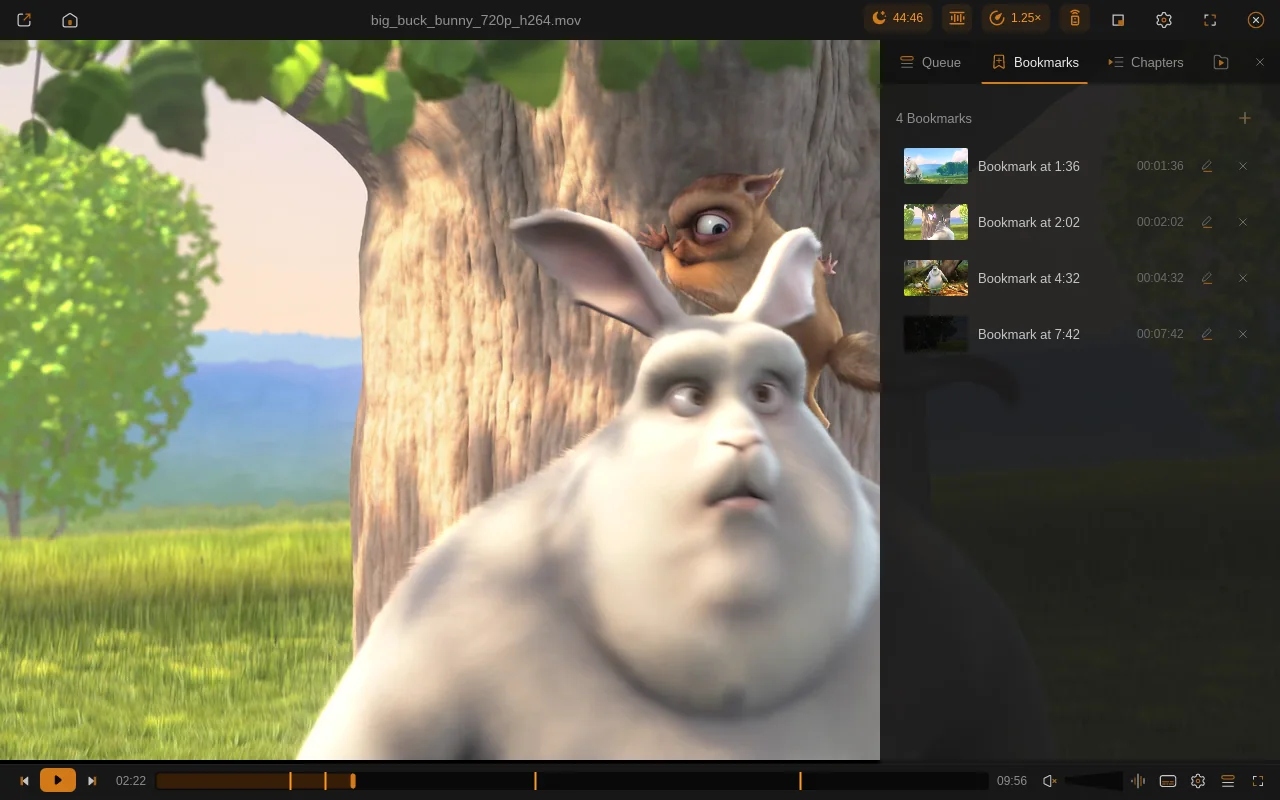
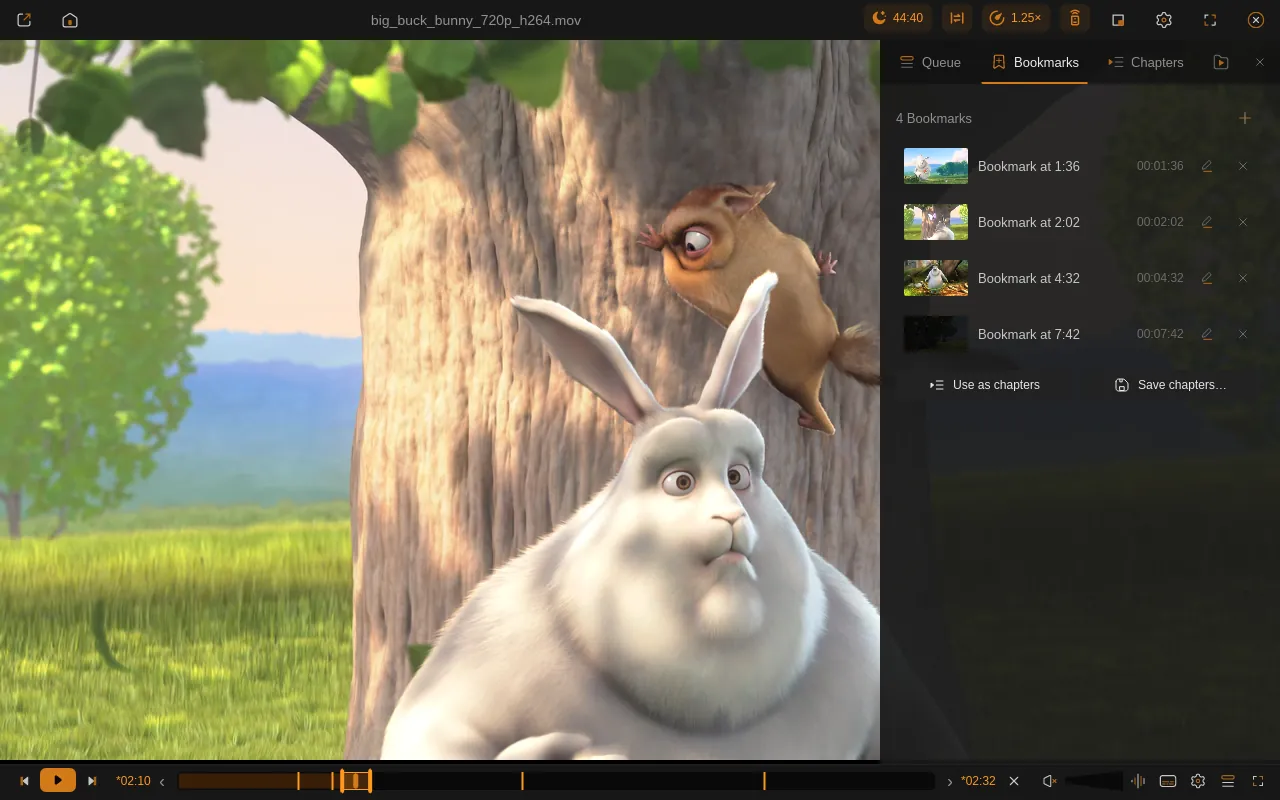
Site: bookmarks screenshot with the chapter buttons and A-B loop

diff --git a/docs/site/index.html b/docs/site/index.html
@@ -55,7 +55,7 @@
   <div class="tile"><h3>Volume leveling, gapless and crossfade <span class="tag">New in 0.15</span></h3><p>ReplayGain by track or album with a preamp, clipping protection and a gain for untagged files, so tagged songs play at a similar loudness. Local music plays gapless by default, and an optional soft crossfade of up to 12 s fades one track out before the next fades in. Settings → Audio.</p><a href="img/audio-leveling.webp"><img class="shot" src="img/audio-leveling.webp" alt="Audio settings: ReplayGain set to Album, Preamp, Prevent clipping and Files without tags under Volume leveling, and Gapless playback on with a 6 s Crossfade under Between tracks" loading="lazy" decoding="async" width="1054" height="659"></a></div>
   <div class="tile"><h3>Your mouse, your keys <span class="tag">New in 0.15</span></h3><p>Settings → Controls gathers Skip Amounts, Keyboard Shortcuts, Mouse and Remotes. Choose what left click, double-click, middle click and the Back / Forward side buttons do on the video, and whether the scroll wheel changes volume, speed or seeks. Skip Amounts adds a speed step of 0.05, 0.1 or 0.25×.</p><a href="img/controls-mouse.webp"><img class="shot" src="img/controls-mouse.webp" alt="Settings → Controls → Mouse: actions for left click, left double-click, middle click and the Back and Forward buttons, the scroll wheel and Reverse scroll direction" loading="lazy" decoding="async" width="1280" height="720"></a></div>
   <div class="tile"><h3>Streams hub <span class="tag">New in 0.14</span></h3><p>One Library page for everything you stream: a URL bar with history, Recent, Favorites, Radio, TV and Music tabs with the same cards and ★, and a shared now-playing card with lyrics, record and download. Services like Free Music and YouTube Music open straight from the sidebar.</p><a href="img/streams.png"><img class="shot" src="img/streams.webp" alt="Streams hub: the Radio tab with country, genre, language, bitrate and sort filters, and the now-playing card of a SomaFM station" loading="lazy" decoding="async" width="1280" height="720"></a></div>
-  <div class="tile"><h3>Bookmarks, sleep timer and status chips <span class="tag">New in 0.14</span></h3><p><kbd>Ctrl B</kbd> bookmarks the spot: bookmarks are saved per file with a small frame, pinned on the seek bar and listed in the side panel. The sleep timer runs for any number of minutes, to the end of the chapter or for a number of items, and fades the volume out. New in 0.15: <em>Use as chapters</em> turns bookmarks into chapters and <em>Save chapters…</em> writes an FFmpeg chapters file. Clickable chips in the top bar show what is on: sleep timer, loudness, A-B loop, speed or remote.</p><a href="img/bookmarks-sleep.webp"><img class="shot" src="img/bookmarks-sleep.webp" alt="Big Buck Bunny paused with the side panel's Bookmarks tab: four bookmarks with frames, bookmark pins on the seek bar, and sleep timer, loudness, speed and remote chips in the top bar" loading="lazy" decoding="async" width="1280" height="800"></a></div>
+  <div class="tile"><h3>Bookmarks, sleep timer and status chips <span class="tag">New in 0.14</span></h3><p><kbd>Ctrl B</kbd> bookmarks the spot: bookmarks are saved per file with a small frame, pinned on the seek bar and listed in the side panel. The sleep timer runs for any number of minutes, to the end of the chapter or for a number of items, and fades the volume out. New in 0.15: <em>Use as chapters</em> turns bookmarks into chapters and <em>Save chapters…</em> writes an FFmpeg chapters file. Clickable chips in the top bar show what is on: sleep timer, loudness, A-B loop, speed or remote.</p><a href="img/bookmarks-sleep.webp"><img class="shot" src="img/bookmarks-sleep.webp" alt="Big Buck Bunny paused in an A-B loop with the side panel's Bookmarks tab: four bookmarks with frames and the Use as chapters and Save chapters… buttons, bookmark pins and the loop on the seek bar, and sleep timer, A-B loop, 1.25× speed and remote chips in the top bar" loading="lazy" decoding="async" width="1280" height="800"></a></div>
   <div class="tile"><h3>YouTube Music</h3><p>Your own YouTube Music account in Vivi: search (no sign-in needed), your library, album, playlist and artist pages, up next and mixes, likes and opt-in downloads. Open it from the sidebar or, new in 0.14, from the Streams hub's Music tab. An unofficial plugin from the marketplace.</p><a href="img/youtube-music.webp"><img class="shot" src="img/youtube-music.webp" alt="YouTube Music plugin: search results as a cover grid, with the selected song's cover, details and actions in the side pane" loading="lazy" decoding="async" width="1280" height="774"></a></div>
   <div class="tile"><h3>Auto-tagger</h3><p>Identifies songs by audio fingerprint or tags, merges several sources ranked by confidence, and lets you review every field before it writes. Every write can be undone.</p><a href="img/tagger-review.webp"><img class="shot" src="img/tagger-review.webp" alt="Auto-tagger review: current and proposed tags side by side with source badges" loading="lazy" decoding="async" width="1280" height="800"></a></div>
   <div class="tile"><h3>Karaoke lyrics</h3><p>Press <kbd>L</kbd> for full-screen synced lyrics with a word-by-word highlight, from <code>.lrc</code> files, your tags or LRCLIB.</p><a href="img/lyrics-karaoke.webp"><img class="shot" src="img/lyrics-karaoke.webp" alt="Full-screen karaoke lyrics with a word-by-word highlight" loading="lazy" decoding="async" width="1280" height="800"></a></div>
